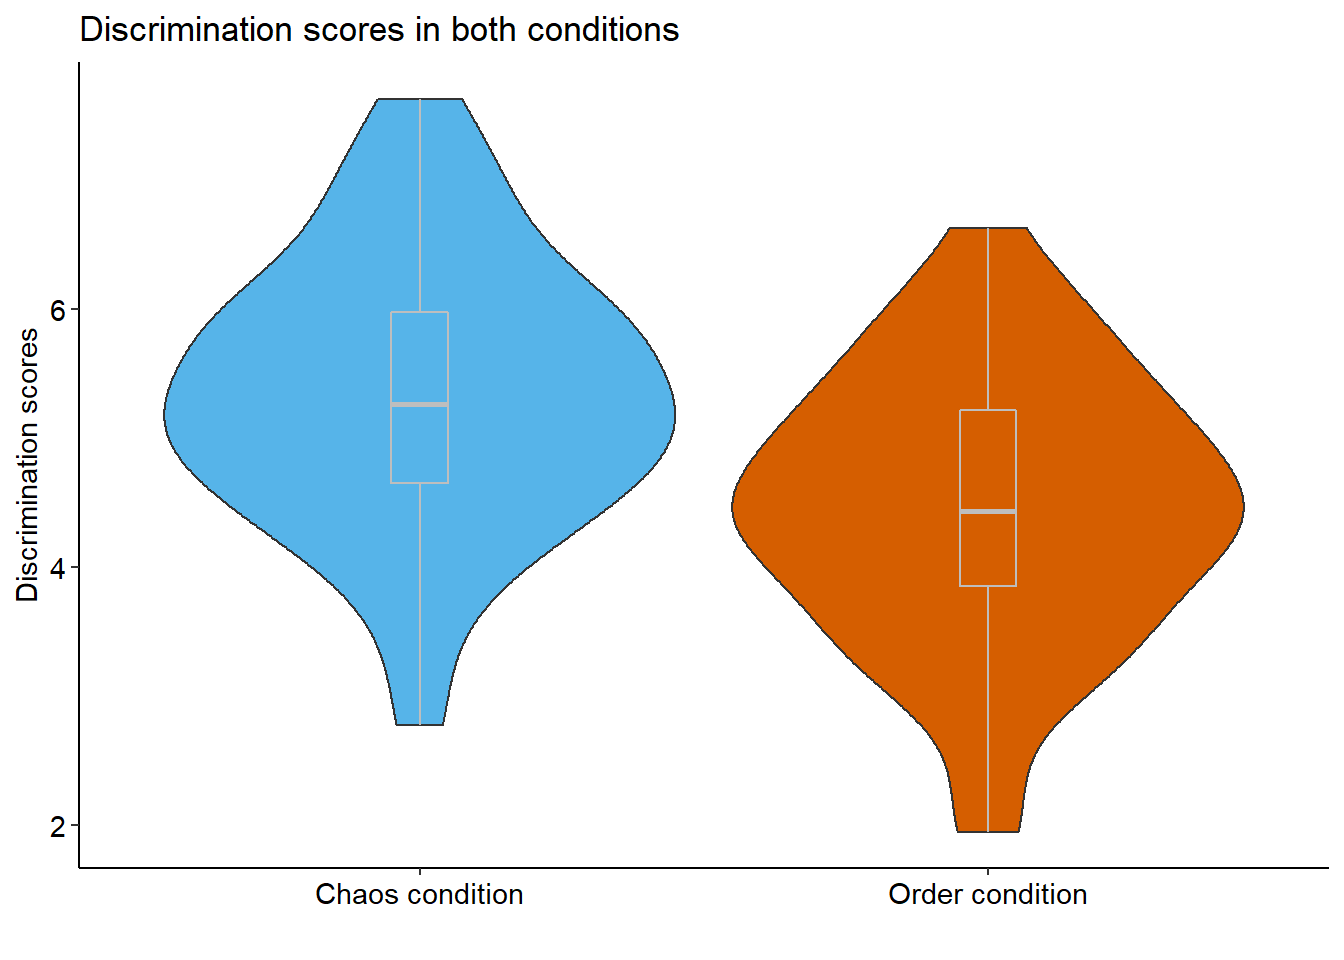
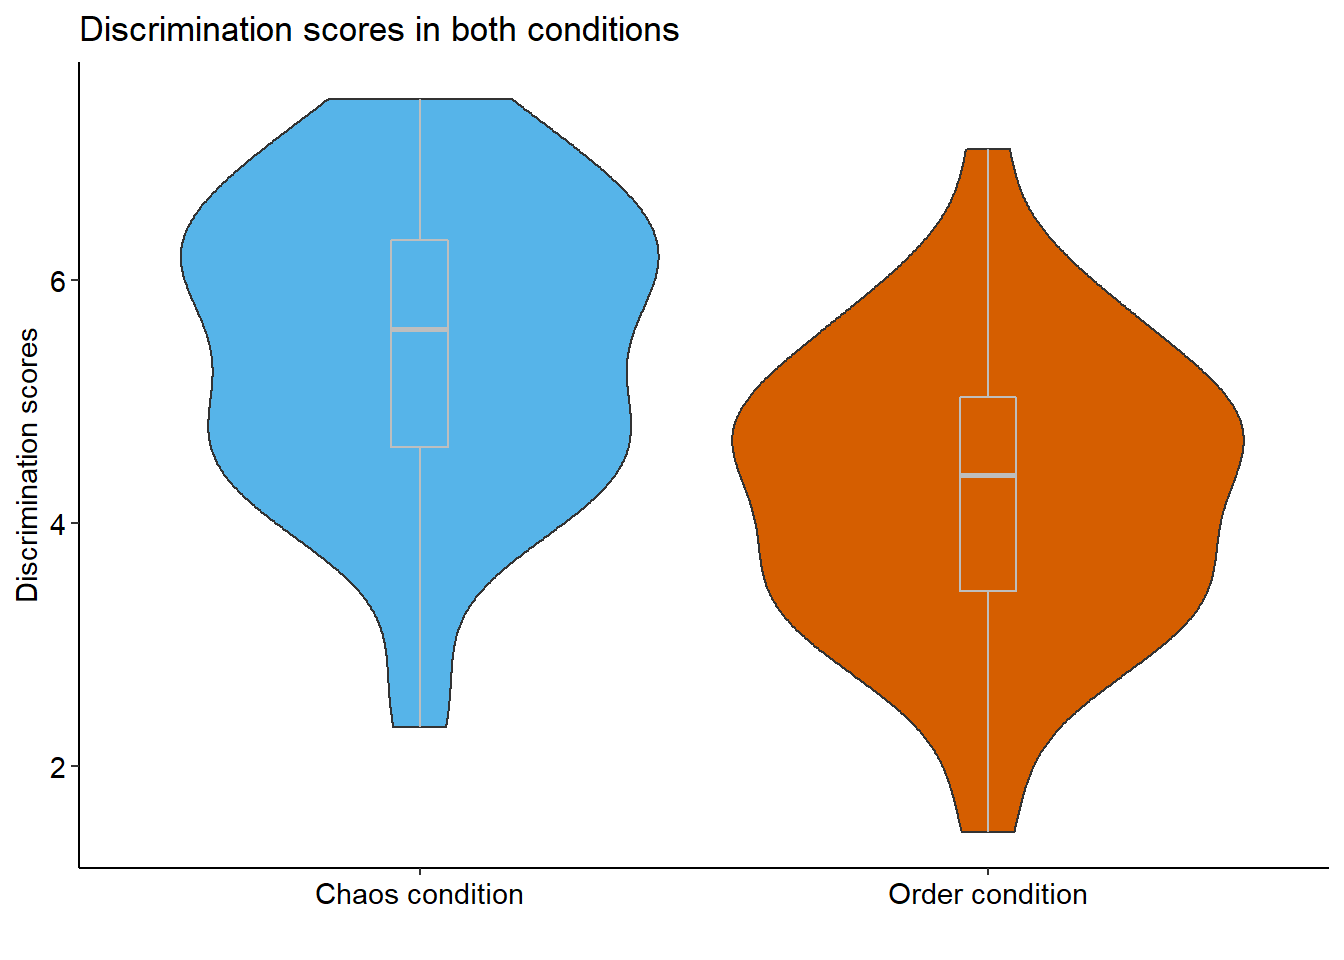
Commit

diff --git a/content/post/CopyOf2020-12-01-r-rmarkdown/index.html b/content/post/CopyOf2020-12-01-r-rmarkdown/index.html
@@ -82,7 +82,7 @@ library(ggplot2)</code></pre>
 ##  Shapiro-Wilk normality test
 ## 
 ## data:  dd[x, ]
-## W = 0.99163, p-value = 0.9901
+## W = 0.96465, p-value = 0.2407
 ## 
 ## ------------------------------------------------------------ 
 ## data$condition: Order condition
@@ -90,7 +90,7 @@ library(ggplot2)</code></pre>
 ##  Shapiro-Wilk normality test
 ## 
 ## data:  dd[x, ]
-## W = 0.9883, p-value = 0.9477</code></pre>
+## W = 0.99218, p-value = 0.9933</code></pre>
 <p>Para comprobar la homogeneidad de las varianzas:</p>
 <p>F-test:</p>
 <pre class="r"><code>var.test(data$discrimination ~ data$condition) #F-test para comprobar la homogeneidad de las varianzas</code></pre>
@@ -98,18 +98,18 @@ library(ggplot2)</code></pre>
 ##  F test to compare two variances
 ## 
 ## data:  data$discrimination by data$condition
-## F = 1.0245, num df = 39, denom df = 39, p-value = 0.9402
+## F = 1.0857, num df = 39, denom df = 39, p-value = 0.7986
 ## alternative hypothesis: true ratio of variances is not equal to 1
 ## 95 percent confidence interval:
-##  0.5418439 1.9369935
+##  0.5742376 2.0527952
 ## sample estimates:
 ## ratio of variances 
-##           1.024475</code></pre>
+##           1.085722</code></pre>
 <p>Test de Levene. Por defecto utiliza la mediana (más robusto), pero podemos elegir la media con sustituyendo en el argumento center = “mean”</p>
 <pre class="r"><code>leveneTest(y = data$discrimination, group = data$condition, center = &quot;median&quot;) </code></pre>
 <pre><code>## Levene&#39;s Test for Homogeneity of Variance (center = &quot;median&quot;)
 ##       Df F value Pr(&gt;F)
-## group  1  0.0117 0.9143
+## group  1  0.1493 0.7002
 ##       78</code></pre>
 <p>Test de Barlett:</p>
 <pre class="r"><code>bartlett.test(data$discrimination ~ data$condition)</code></pre>
@@ -117,7 +117,7 @@ library(ggplot2)</code></pre>
 ##  Bartlett test of homogeneity of variances
 ## 
 ## data:  data$discrimination by data$condition
-## Bartlett&#39;s K-squared = 0.0056282, df = 1, p-value = 0.9402</code></pre>
+## Bartlett&#39;s K-squared = 0.065098, df = 1, p-value = 0.7986</code></pre>
 <p>También podemos realizar el test de Brown-Forsyth con la función hov() del paquete HH o el Fligner-Killeen test utilizando la misma fórmula y la función fligner.test().</p>
 <p>Si el resultado del test que elijamos es p &lt; .05 no podemos asumir que las varianzas son iguales. Estas pruebas apuntarían a que nuestros grupos las varianzas no son homogéneas y utilizaríamos pruebas distintas para calcular si hay diferencias significativas entre las medias.</p>
 <p>Si utilizamos t.test() para las diferencias de medias el propio programa lleva a cabo una prueba (e.g. Two Sample t-test) u otra (e.g. Welch Two Sample t-test) en función de si hay igualdad de las varianzas, pero podemos forzarlo asumir igualdad de varianzas con el argumento var.equal = TRUE o a asumir lo contrario, con el argumento var.equal = FALSE. Por tanto, está bien tener control sobre lo que hacemos y elegir la mejor prueba, teniendo en cuanta nuestras consideraciones teóricas, para estudiar la homogeneidad de la varianza y, en consecuencia, el mejor test de comparación de medias.</p>
@@ -131,46 +131,46 @@ library(ggplot2)</code></pre>
 ##  Two Sample t-test
 ## 
 ## data:  discrimination by condition
-## t = 3.8652, df = 78, p-value = 0.0002282
+## t = 4.4684, df = 78, p-value = 2.632e-05
 ## alternative hypothesis: true difference in means between group Chaos condition and group Order condition is not equal to 0
 ## 95 percent confidence interval:
-##  0.4386708 1.3705234
+##  0.6629921 1.7284715
 ## sample estimates:
 ## mean in group Chaos condition mean in group Order condition 
-##                      5.359576                      4.454979</code></pre>
+##                      5.467932                      4.272200</code></pre>
 <p>Si no podemos asumir varianzas iguales:</p>
 <pre class="r"><code>t.test(discrimination ~ condition, data = data, alternative = &quot;two.sided&quot;, var.equal = FALSE)</code></pre>
 <pre><code>## 
 ##  Welch Two Sample t-test
 ## 
 ## data:  discrimination by condition
-## t = 3.8652, df = 77.989, p-value = 0.0002283
+## t = 4.4684, df = 77.868, p-value = 2.637e-05
 ## alternative hypothesis: true difference in means between group Chaos condition and group Order condition is not equal to 0
 ## 95 percent confidence interval:
-##  0.4386697 1.3705244
+##  0.6629779 1.7284857
 ## sample estimates:
 ## mean in group Chaos condition mean in group Order condition 
-##                      5.359576                      4.454979</code></pre>
+##                      5.467932                      4.272200</code></pre>
 <p>Medidas repetidas</p>
 <pre class="r"><code>t.test(discrimination ~ condition, data = data, alternative = &quot;two.sided&quot;, paired = TRUE, var.equal = TRUE)</code></pre>
 <pre><code>## 
 ##  Paired t-test
 ## 
 ## data:  discrimination by condition
-## t = 3.8989, df = 39, p-value = 0.0003701
+## t = 4.4683, df = 39, p-value = 6.593e-05
 ## alternative hypothesis: true difference in means is not equal to 0
 ## 95 percent confidence interval:
-##  0.4353048 1.3738893
+##  0.6544559 1.7370077
 ## sample estimates:
 ## mean of the differences 
-##               0.9045971</code></pre>
+##                1.195732</code></pre>
 <p>Si los datos no siguen una distribución normal, como test no paramétrico, podemos utilizar el de Wilcoxon:</p>
 <pre class="r"><code>wilcox.test(data$discrimination ~ data$condition, alternative = &quot;two.sided&quot;, paired = FALSE) #Para medidas repetidas en el argumento paired escribiríamos TRUE</code></pre>
 <pre><code>## 
 ##  Wilcoxon rank sum exact test
 ## 
 ## data:  data$discrimination by data$condition
-## W = 1176, p-value = 0.0002252
+## W = 1222, p-value = 3.008e-05
 ## alternative hypothesis: true location shift is not equal to 0</code></pre>
 </div>
 <div id="la-lógica-subyacente" class="section level1">
@@ -200,7 +200,7 @@ difmed</code></pre>
 ## # A tibble: 1 x 1
 ##    stat
 ##   &lt;dbl&gt;
-## 1 0.905</code></pre>
+## 1  1.20</code></pre>
 <p>Ahora calculamos el intervalo de confianza usando una distribución ‘bootstrapped’ de las diferencias de medias basada en nuestra muestra.</p>
 <pre class="r"><code>medboot &lt;- data %&gt;% 
   specify(discrimination ~ condition) %&gt;% 
@@ -253,13 +253,13 @@ cond_diffs_null %&gt;%
 <pre class="r"><code>cohens_d(data$discrimination, y = data$condition, ci = 0.95, pooled_sd = TRUE) #Con pooled_sd = TRUE indicamos que utilice la desviación típica agrupada de ambas muestras. Asumimos que las varianzas son iguales. </code></pre>
 <pre><code>## Cohen&#39;s d |       95% CI
 ## ------------------------
-## 0.86      | [0.40, 1.32]
+## 1.00      | [0.53, 1.46]
 ## 
 ## - Estimated using pooled SD.</code></pre>
 <pre class="r"><code>hedges_g(data$discrimination, y = data$condition, ci = 0.95, pooled_sd = FALSE)</code></pre>
 <pre><code>## Hedges&#39; g |       95% CI
 ## ------------------------
-## 0.86      | [0.40, 1.31]
+## 0.99      | [0.53, 1.45]
 ## 
 ## - Estimated using un-pooled SD.</code></pre>
 <div id="interpretar-y-transformar-el-tamaño-del-efecto" class="section level2">
